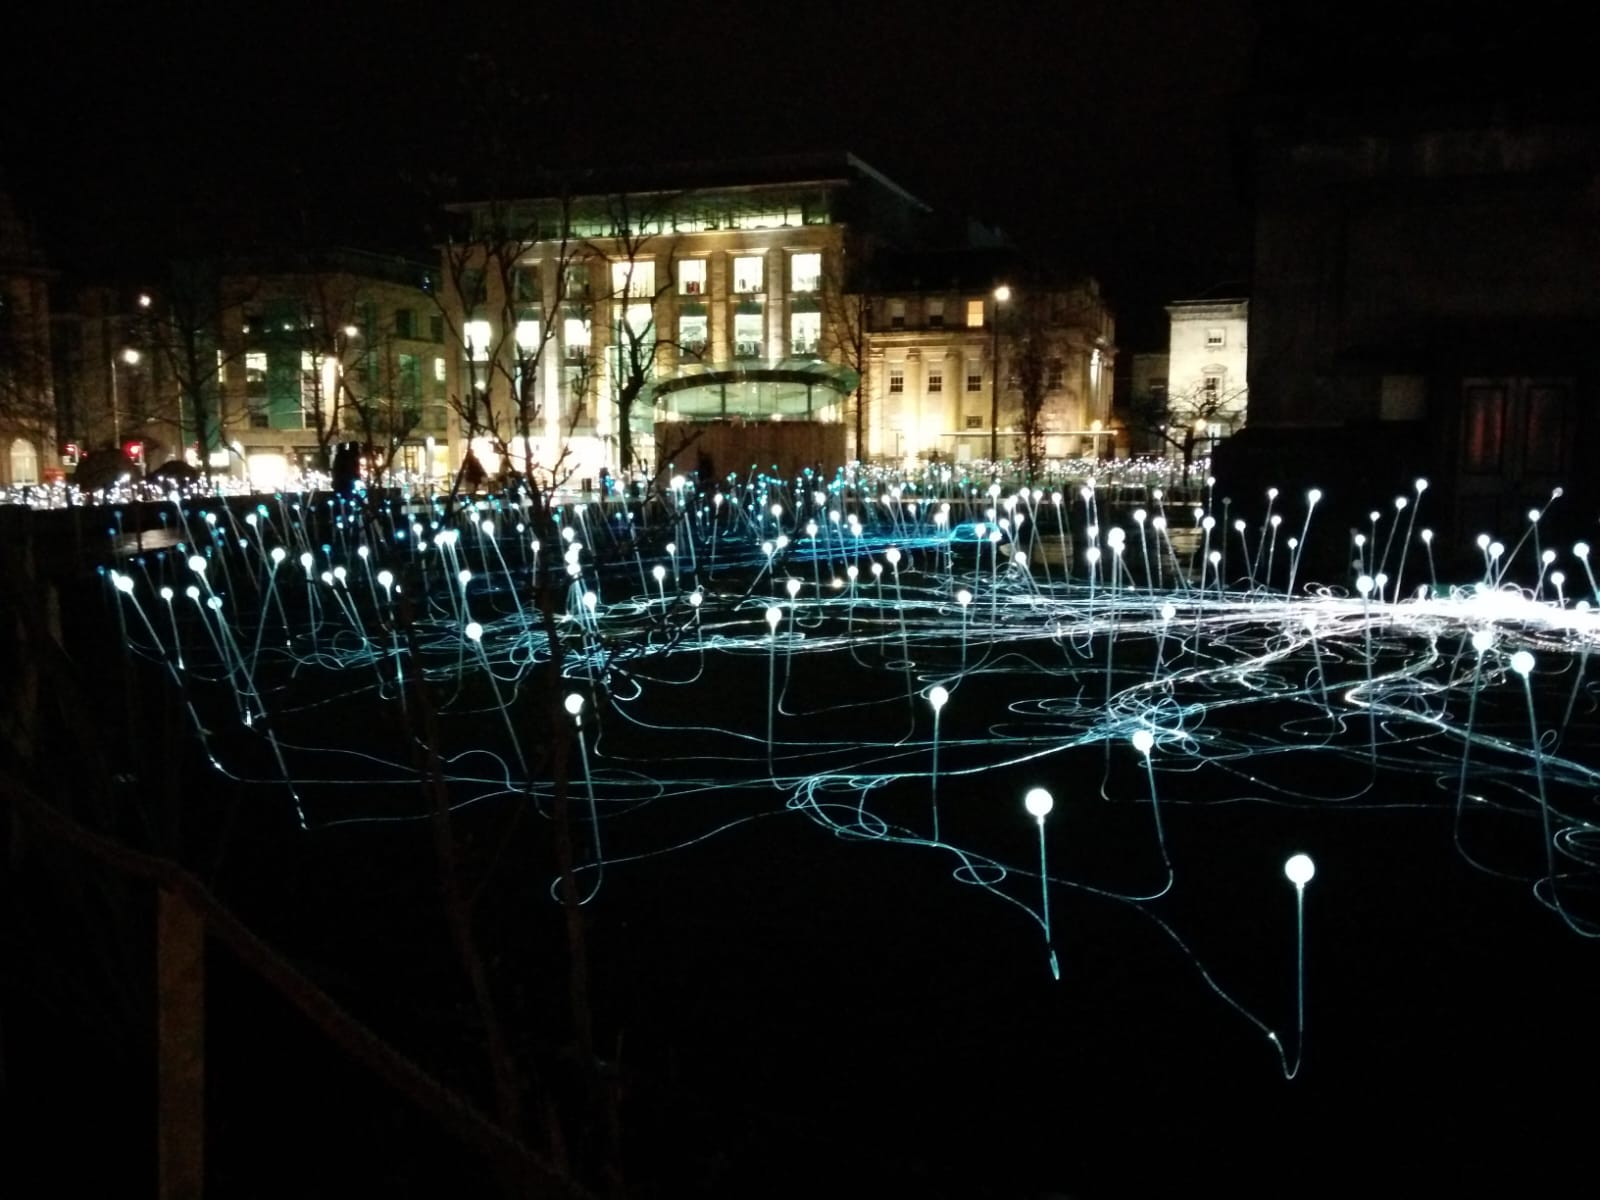
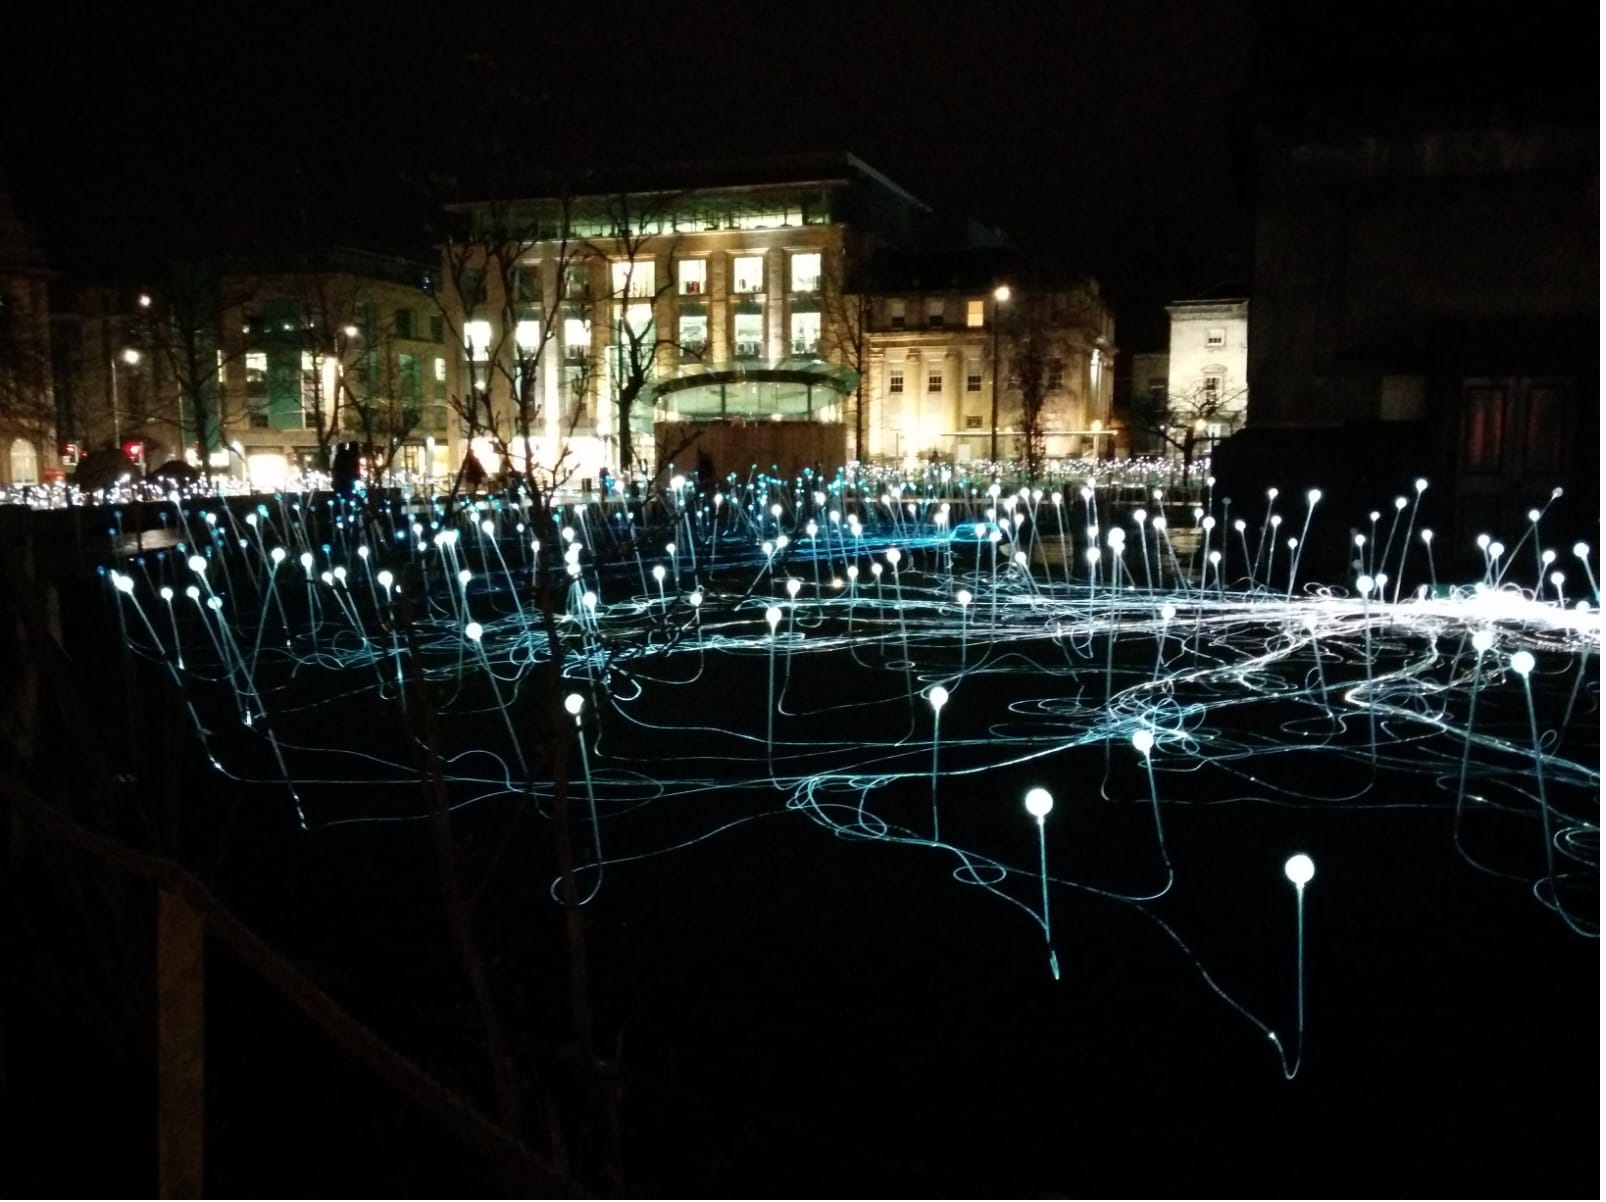
img on the background with opacity. fixed card-presentation-position

diff --git a/public/styles/styles.css b/public/styles/styles.css
@@ -3,7 +3,7 @@
     font-family: 'Cormorant Garamond', serif;
     --text-primary: #BCBAB8;
     --text-secondary: #F9F9F9;
-    --bg-primary: #625757;
+    --bg-primary: black;
     --bg-secondary: #9D8F8F;
     --transition-speed: 600ms;
 }
@@ -27,7 +27,7 @@ body {
 }
 
 main {
-    margin-left: 5.5rem;
+    margin-left: 4rem;
     padding: 1rem;
 }
 
@@ -38,6 +38,7 @@ main {
     position: fixed;
     background-color: var(--bg-primary);
     transition: width 200ms ease;
+    z-index: 999;
 }
 
 
@@ -120,15 +121,25 @@ main {
 /* Home Presentation Card */
 
 .home-page {
-    position: relative;
+    position: absolute;
     display: flex;
     gap: 2rem;
     flex-direction: column;
     align-items: center;
     justify-content: center;
-    top: 50%;
+    z-index: 999;
+    top: 40%;
+    left: 40%;
    
 
+}
+
+.home-presentation-card {
+    opacity: 0;
+    animation: landingPageAnimation 6s ease-in forwards;
+    animation-duration: 900ms;
+   
+   
 }
 
 .lucas-img {
@@ -136,18 +147,18 @@ main {
     height: 130px;
     margin: 1rem 0 0.25rem;
     opacity: 0;
-    animation: landingPageAnimation 2s ease-in forwards;
+    animation: landingPageAnimation 2s ease forwards;
     animation-duration: 700ms;
 
 }
 
 .landing-page-img {
-    position: fixed;
-    opacity: calc(0.6);
-    height: fit-content;
-    width: fit-content;
-    width: 100px;
-    height: 100px;
+    margin: 0;
+    width: 100%;
+    object-fit: contain;
+    opacity: 0.4;
+    z-index: -999;
+ 
 }
 
 /* Butão Whatsapp */

diff --git a/src/pages/Home.jsx b/src/pages/Home.jsx
@@ -9,7 +9,7 @@ function Home() {
                 <h3 className="home-subtitle">Desenvolvedor de Web</h3>
             </div>
         </div>
-        <img className="landing-page-img" alt="scotland-street-art" src="images/white-blue-green.jpeg"></img>
+        <img className="landing-page-img" alt="scotland-street-art" src="images/white-blue.jpeg"></img>
             </>)
 }
 
